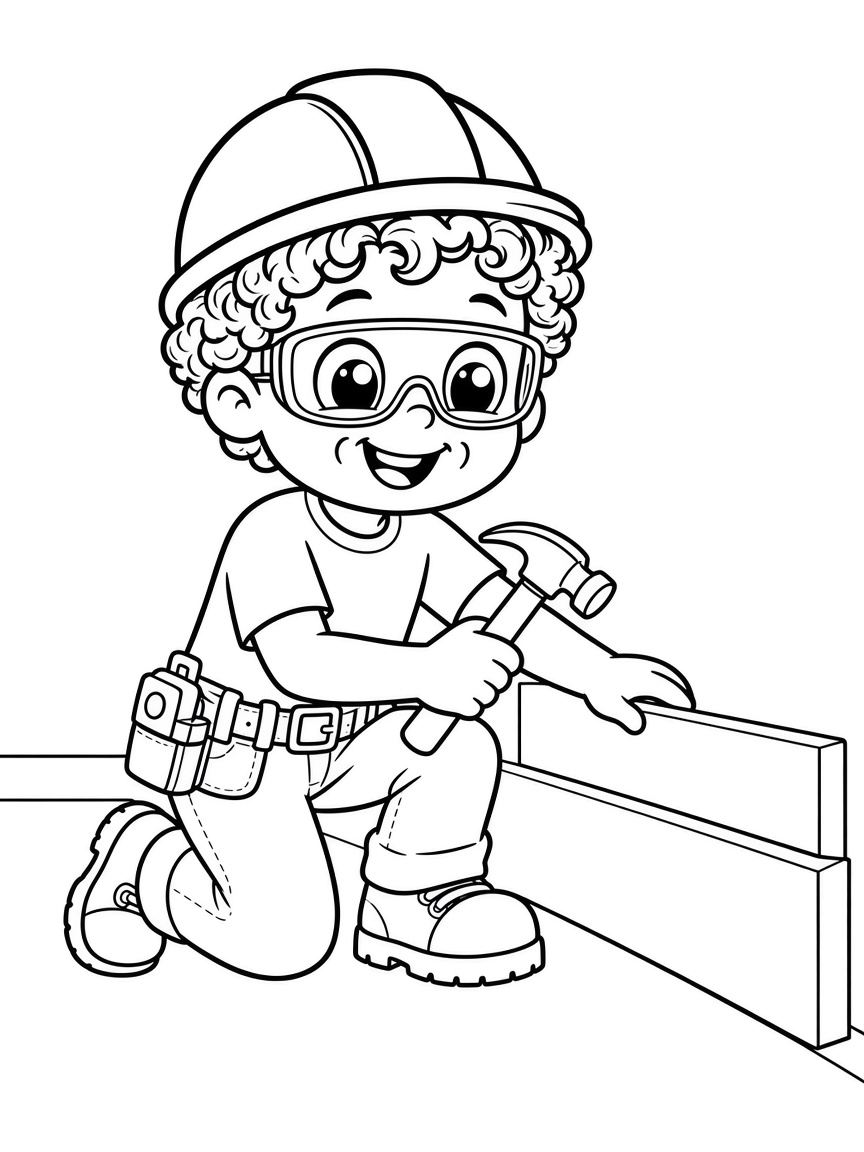
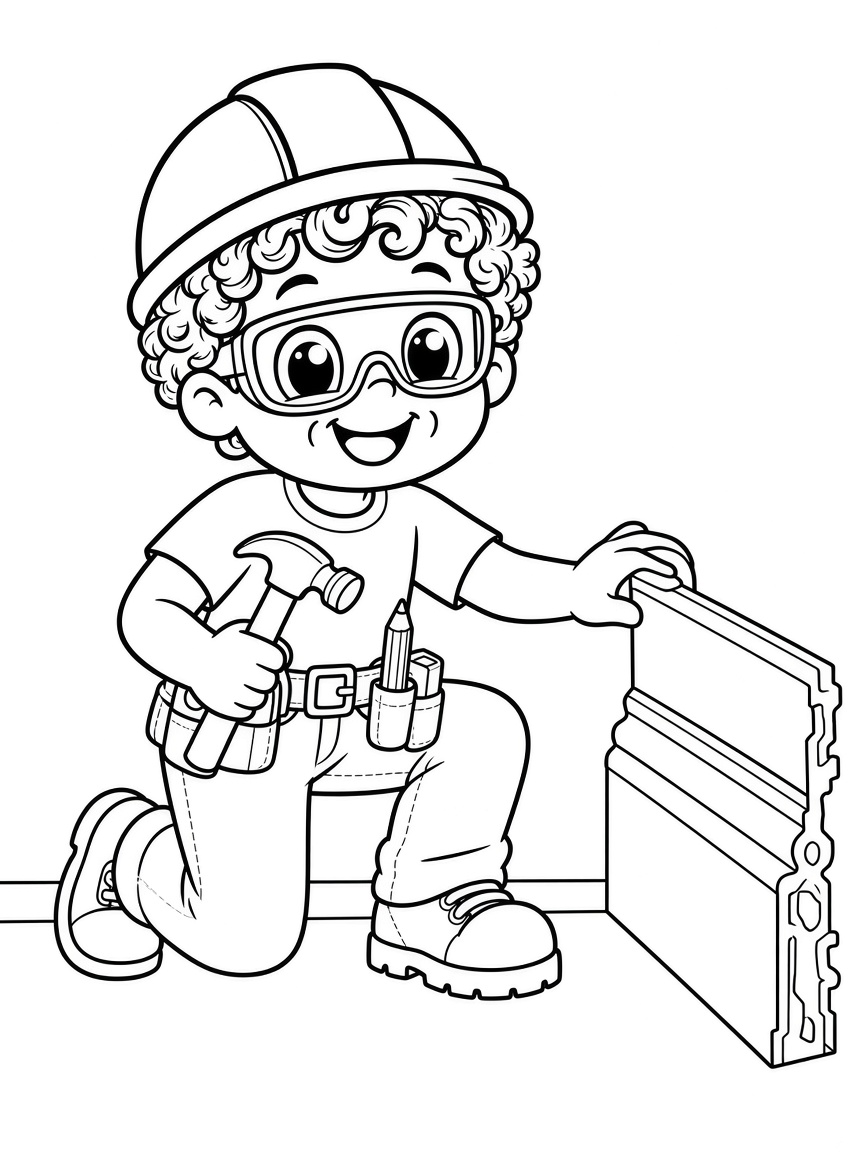
Redraw Victorian architrave and skirting. Cut clamps, jig, door.
Architrave and skirting now have decorative ogee profiles and a mitre. Review pages 34, 35, and 36 are out. Catalog is 25.

Changed region(s): [[0.0, 0.0312, 1.0, 0.9375], [0.125, 0.5, 0.1562, 0.5625]]

diff --git a/kody-the-carpenter/PAGE-MAP.md b/kody-the-carpenter/PAGE-MAP.md
@@ -1,6 +1,6 @@
 # Kody the Carpenter — Page Map
 
-**25 colouring pages.** Catalog is **28**. Cover is Oliver’s favourite designed photo, not a generated illustration.
+**25 colouring pages.** Catalog is **25**. Cover is Oliver’s favourite designed photo, not a generated illustration.
 
 Print file: **A5, 50 pages, single-sided** (25 art + 25 blank backs).
 
@@ -28,9 +28,9 @@ Locked 19 Sep 2026 from his list. Picnic (11) cut on the second pass. Periods re
 | 14 | 29 | Pegboard | `pages/review/r29-pegboard.png` |
 | 15 | 31 | High five | `pages/review/r31-highfive.png` |
 | 16 | 17 | Window trim | `pages/review/r17-trim.png` |
-| 17–25 | TBD | Need 9 more | Pick 9 from leftover 12 |
+| 17–25 | TBD | Need 9 more | Leftover is now 9. Confirm order. |
 
-### Leftover (12). Pick 9.
+### Leftover (9). Confirm book order.
 
 | # | Page | Review file |
 | --- | --- | --- |
@@ -41,23 +41,20 @@ Locked 19 Sep 2026 from his list. Picnic (11) cut on the second pass. Periods re
 | 25 | Toy box | `pages/review/r25-toybox.png` |
 | 26 | Bookshelf | `pages/review/r26-bookshelf.png` |
 | 30 | Your turn | `pages/review/r30-your-turn.png` |
-| 32 | Architrave | `pages/review/r32-architrave.png` |
-| 33 | Skirting | `pages/review/r33-skirting.png` |
-| 34 | Clamps | `pages/review/r34-clamps.png` |
-| 35 | Mitre-box jig | `pages/review/r35-jig.png` |
-| 36 | Hang a door | `pages/review/r36-door.png` |
+| 32 | Victorian architrave, mitre | `pages/review/r32-architrave.png` |
+| 33 | Victorian skirting, mitre | `pages/review/r33-skirting.png` |
 
-Reply with 9 numbers in book order. Three leftover get dropped.
+If all 9 stay, the 25 is full. Reply with those 9 numbers in book order.
 
 ---
 
 ## Review set (full catalog)
 
-28 remakes. Cut: 4, 8, 10, 11, 13, 20, 27, 28. Folder: `pages/review/`.
+25 remakes. Cut: 4, 8, 10, 11, 13, 20, 27, 28, 34, 35, 36. Folder: `pages/review/`.
 
 Lock sheet: `references/kody-character-locked-v2.png`
 
-Dropped: hammer, safety, picnic table, carpenter’s square, kneeling well, crouch pickup, lemonade stand, fort.
+Dropped: hammer, safety, picnic table, carpenter’s square, kneeling well, crouch pickup, lemonade stand, fort, clamps, mitre-box jig, hang a door.
 
 | # | Page | Review file |
 | --- | --- | --- |
@@ -84,11 +81,8 @@ Dropped: hammer, safety, picnic table, carpenter’s square, kneeling well, crou
 | 29 | Pegboard | `pages/review/r29-pegboard.png` |
 | 30 | Your turn | `pages/review/r30-your-turn.png` |
 | 31 | High five | `pages/review/r31-highfive.png` |
-| 32 | Architrave | `pages/review/r32-architrave.png` |
-| 33 | Skirting | `pages/review/r33-skirting.png` |
-| 34 | Clamps | `pages/review/r34-clamps.png` |
-| 35 | Mitre-box jig | `pages/review/r35-jig.png` |
-| 36 | Hang a door | `pages/review/r36-door.png` |
+| 32 | Victorian architrave, mitre | `pages/review/r32-architrave.png` |
+| 33 | Victorian skirting, mitre | `pages/review/r33-skirting.png` |
 
 Page 23 foot fix: both boots on the ground. No blob on the seat.
 
@@ -230,9 +224,6 @@ Skipped from the jobsite sheets: bricklaying, the coloured-hair panel, duplicate
 New extras (use if Oliver slots them):
 - Kody puts on the architrave.
 - Skirting along the wall.
-- Clamps hold it tight.
-- The jig keeps the cut straight.
-- In goes the door.
 
 ---
 

diff --git a/kody-the-carpenter/README.md b/kody-the-carpenter/README.md
@@ -7,12 +7,12 @@ This folder is the design kit for the book. Use it to keep every page looking li
 ## What's in here
 
 - `DESIGN-BIBLE.md` — character lock, visual rules, book structure, print specs
-- `PAGE-MAP.md` — Oliver's pick (16 locked) plus leftover catalog, including 5 new jobsite pages
+- `PAGE-MAP.md` — Oliver's pick (16 locked) plus leftover 9
 - `PROMPT-KIT.md` — copy-paste prompts so AI art stays consistent
 - `TOOLS.md` — free ways to generate more character options
 - `pages/opening/` — first 8 colouring pages
 - `pages/builds/` — picnic table (15), well with ladder and shingles (18), extras (doghouse, well kneel, fence, post, trim, cabinets)
-- `pages/review/` — remakes for Oliver to pick from (4, 8, 10, 11, 13, 20, 27, 28 cut). New lock: `references/kody-character-locked-v2.png`
+- `pages/review/` — remakes for Oliver to pick from (4, 8, 10, 11, 13, 20, 27, 28, 34, 35, 36 cut). New lock: `references/kody-character-locked-v2.png`
 - `references/source/` — user jobsite sheets (do not copy bricklaying or duplicates)
 - `references/kody-character-locked.png` — locked look (option D, five-digit hands)
 - `references/kody-crouch-pickup.png` — action pose study (crouch, pick up a board)
@@ -24,7 +24,7 @@ This folder is the design kit for the book. Use it to keep every page looking li
 1. Ages 3 to 6. Extra-bold 5 to 7 pt lines. 70 to 80% white space.
 2. Hard hat on from page 1. Curls, tool belt, big eyes, dimples on every page.
 3. Plain t-shirt. No overalls. Five fingers. Handsaw only. No skill saw.
-4. **25 colouring pages.** Catalog is 28. Oliver locked 16 in `PAGE-MAP.md`. Pick 9 from leftover 12.
+4. **25 colouring pages.** Catalog is 25. Oliver locked 16 in `PAGE-MAP.md`. Confirm order for leftover 9.
 5. Print: **A5**, single-sided, **50-page** interior. Amazon KDP only. **$6.99 to $7.99**.
 6. Cover is Oliver’s favourite designed photo. He supplies it.
 7. No Koda Built logo anywhere.
@@ -36,7 +36,7 @@ This folder is the design kit for the book. Use it to keep every page looking li
 
 Review set in `pages/review/`. Cut: square, kneeling well, crouch, lemonade, fort. Stool foot fixed.
 
-Oliver locked 16 pages (order in `PAGE-MAP.md`). Cut: hammer, safety, picnic. New extras: architrave, skirting, clamps, mitre-box jig, hang a door. Still needed: pick 9 from leftover 12, then cover photo.
+Oliver locked 16 pages (order in `PAGE-MAP.md`). Cut: hammer, safety, picnic, clamps, jig, hang a door. Architrave and skirting redrawn Victorian with mitres. Still needed: leftover 9 in book order, then cover photo.
 
 ## Start here
 

diff --git a/kody-the-carpenter/DESIGN-BIBLE.md b/kody-the-carpenter/DESIGN-BIBLE.md
@@ -32,7 +32,7 @@ Locked from the 14 Sep 2026 call. Change only if Oliver overrides.
 - Title: **Kody the Carpenter**
 - Sister / friend book: later. Not this file.
 - Series / catalog: **finish this one book.** No book 2 until sales data.
-- **Oliver locked 16 interior pages** in `PAGE-MAP.md`. He cut hammer, safety, and picnic. Catalog is 28. He still picks 9 from leftover 12. Mix of kid builds and jobsite pages is his call.
+- **Oliver locked 16 interior pages** in `PAGE-MAP.md`. He cut hammer, safety, picnic, clamps, jig, and hang a door. Catalog is 25. He still confirms leftover 9 in book order. Mix of kid builds and jobsite pages is his call.
 
 ### Cover
 
@@ -48,7 +48,7 @@ Not illustrated by us. **Oliver’s favourite designed photo.** He names or drop
 
 ### Tools kids may copy (locked)
 
-In: hammer, tape measure, handsaw, spirit level, cordless drill, shovel, broom, short step ladder, F-clamps, wooden mitre box.
+In: hammer, tape measure, handsaw, spirit level, cordless drill, shovel, broom, short step ladder.
 
 Out: skill saw, circular saw, table saw, mitre saw, nail gun, angle grinder, utility knife.
 
@@ -180,7 +180,7 @@ Ramp difficulty. Start small. Fort is 9. Well is 10. Each one is something a kid
 | 9 | Fort | The dream build. Boards, window, flag. No ta-da. |
 | 10 | Well | Confirmed. Kid wishing well. Drawn: Kody on a short step ladder, nailing vertical scalloped shingles. |
 
-Drawn but **not slotted:** doghouse, kneeling well, fence, post, window trim, cabinets, carpenter's square, architrave, skirting, clamps, mitre-box jig, hanging door. Crouch/pickup is a pose study. Sweep is slotted as page 19.
+Drawn but **not slotted:** doghouse, kneeling well, fence, post, window trim, cabinets, carpenter's square, Victorian architrave, Victorian skirting. Crouch/pickup is a pose study. Sweep is slotted as page 19.
 
 Each build is **one page.** Kody plus the object, mid-build or just finished, big enough to colour. Safety glasses on. Do not split Plan / Build / Done at this page count.
 
@@ -250,7 +250,7 @@ No current page passes. After Oliver picks the 25: add dimples, then five finger
 
 Do not generate the whole book at once. Order:
 
-1. Oliver locked 16 pages. Cut 4, 8, 11. He still picks 9 from leftover 12 (see `PAGE-MAP.md`).
+1. Oliver locked 16 pages. Cut 4, 8, 11, 34, 35, 36. He still confirms leftover 9 in book order (see `PAGE-MAP.md`).
 2. Draw any missing pages in the sparse style. Dimples + five fingers in the prompt.
 3. Redraw picked opening pages that are still busy.
 4. Dimple pass, then five-finger pass, on every picked page.

diff --git a/kody-the-carpenter/PROMPT-KIT.md b/kody-the-carpenter/PROMPT-KIT.md
@@ -79,11 +79,8 @@ Kody building [OBJECT], which is finished enough to recognise. He uses [TOOL]. W
 | 8 | lemonade stand with sign | hammer | outline letters LEMONADE, pitcher, 2 cups | assembling |
 | 9 | kid-sized wooden fort with one square window | hammer | blank flag | carrying a board into the door. Not ta-da. |
 | 10 | kid-sized wooden wishing well, bucket, pitched roof | hammer | drawn: `18-well.png` | on a short step ladder, nailing VERTICAL scalloped shingles (tall with rounded bottoms, not horizontal timber) |
-| extra | door architrave / casing | hammer | review: `r32-architrave.png` | nailing a long vertical casing board beside the door |
-| extra | skirting board against a wall | hammer | review: `r33-skirting.png` | kneeling, holding skirting at the wall-floor join |
-| extra | two boards in F-clamps | clamps | review: `r34-clamps.png` | tightening clamp handles |
-| extra | wooden mitre-box jig | handsaw | review: `r35-jig.png` | saw blade in the jig slot |
-| extra | hanging a simple door | hands | review: `r36-door.png` | lifting the door, two chunky hinges |
+| extra | Victorian door architrave with 45-degree mitre | hammer | review: `r32-architrave.png` | nailing the mitred head corner, stepped ogee casing |
+| extra | Victorian ogee skirting with mitred corner | hammer | review: `r33-skirting.png` | kneeling at the corner, profile visible |
 
 ---
 
